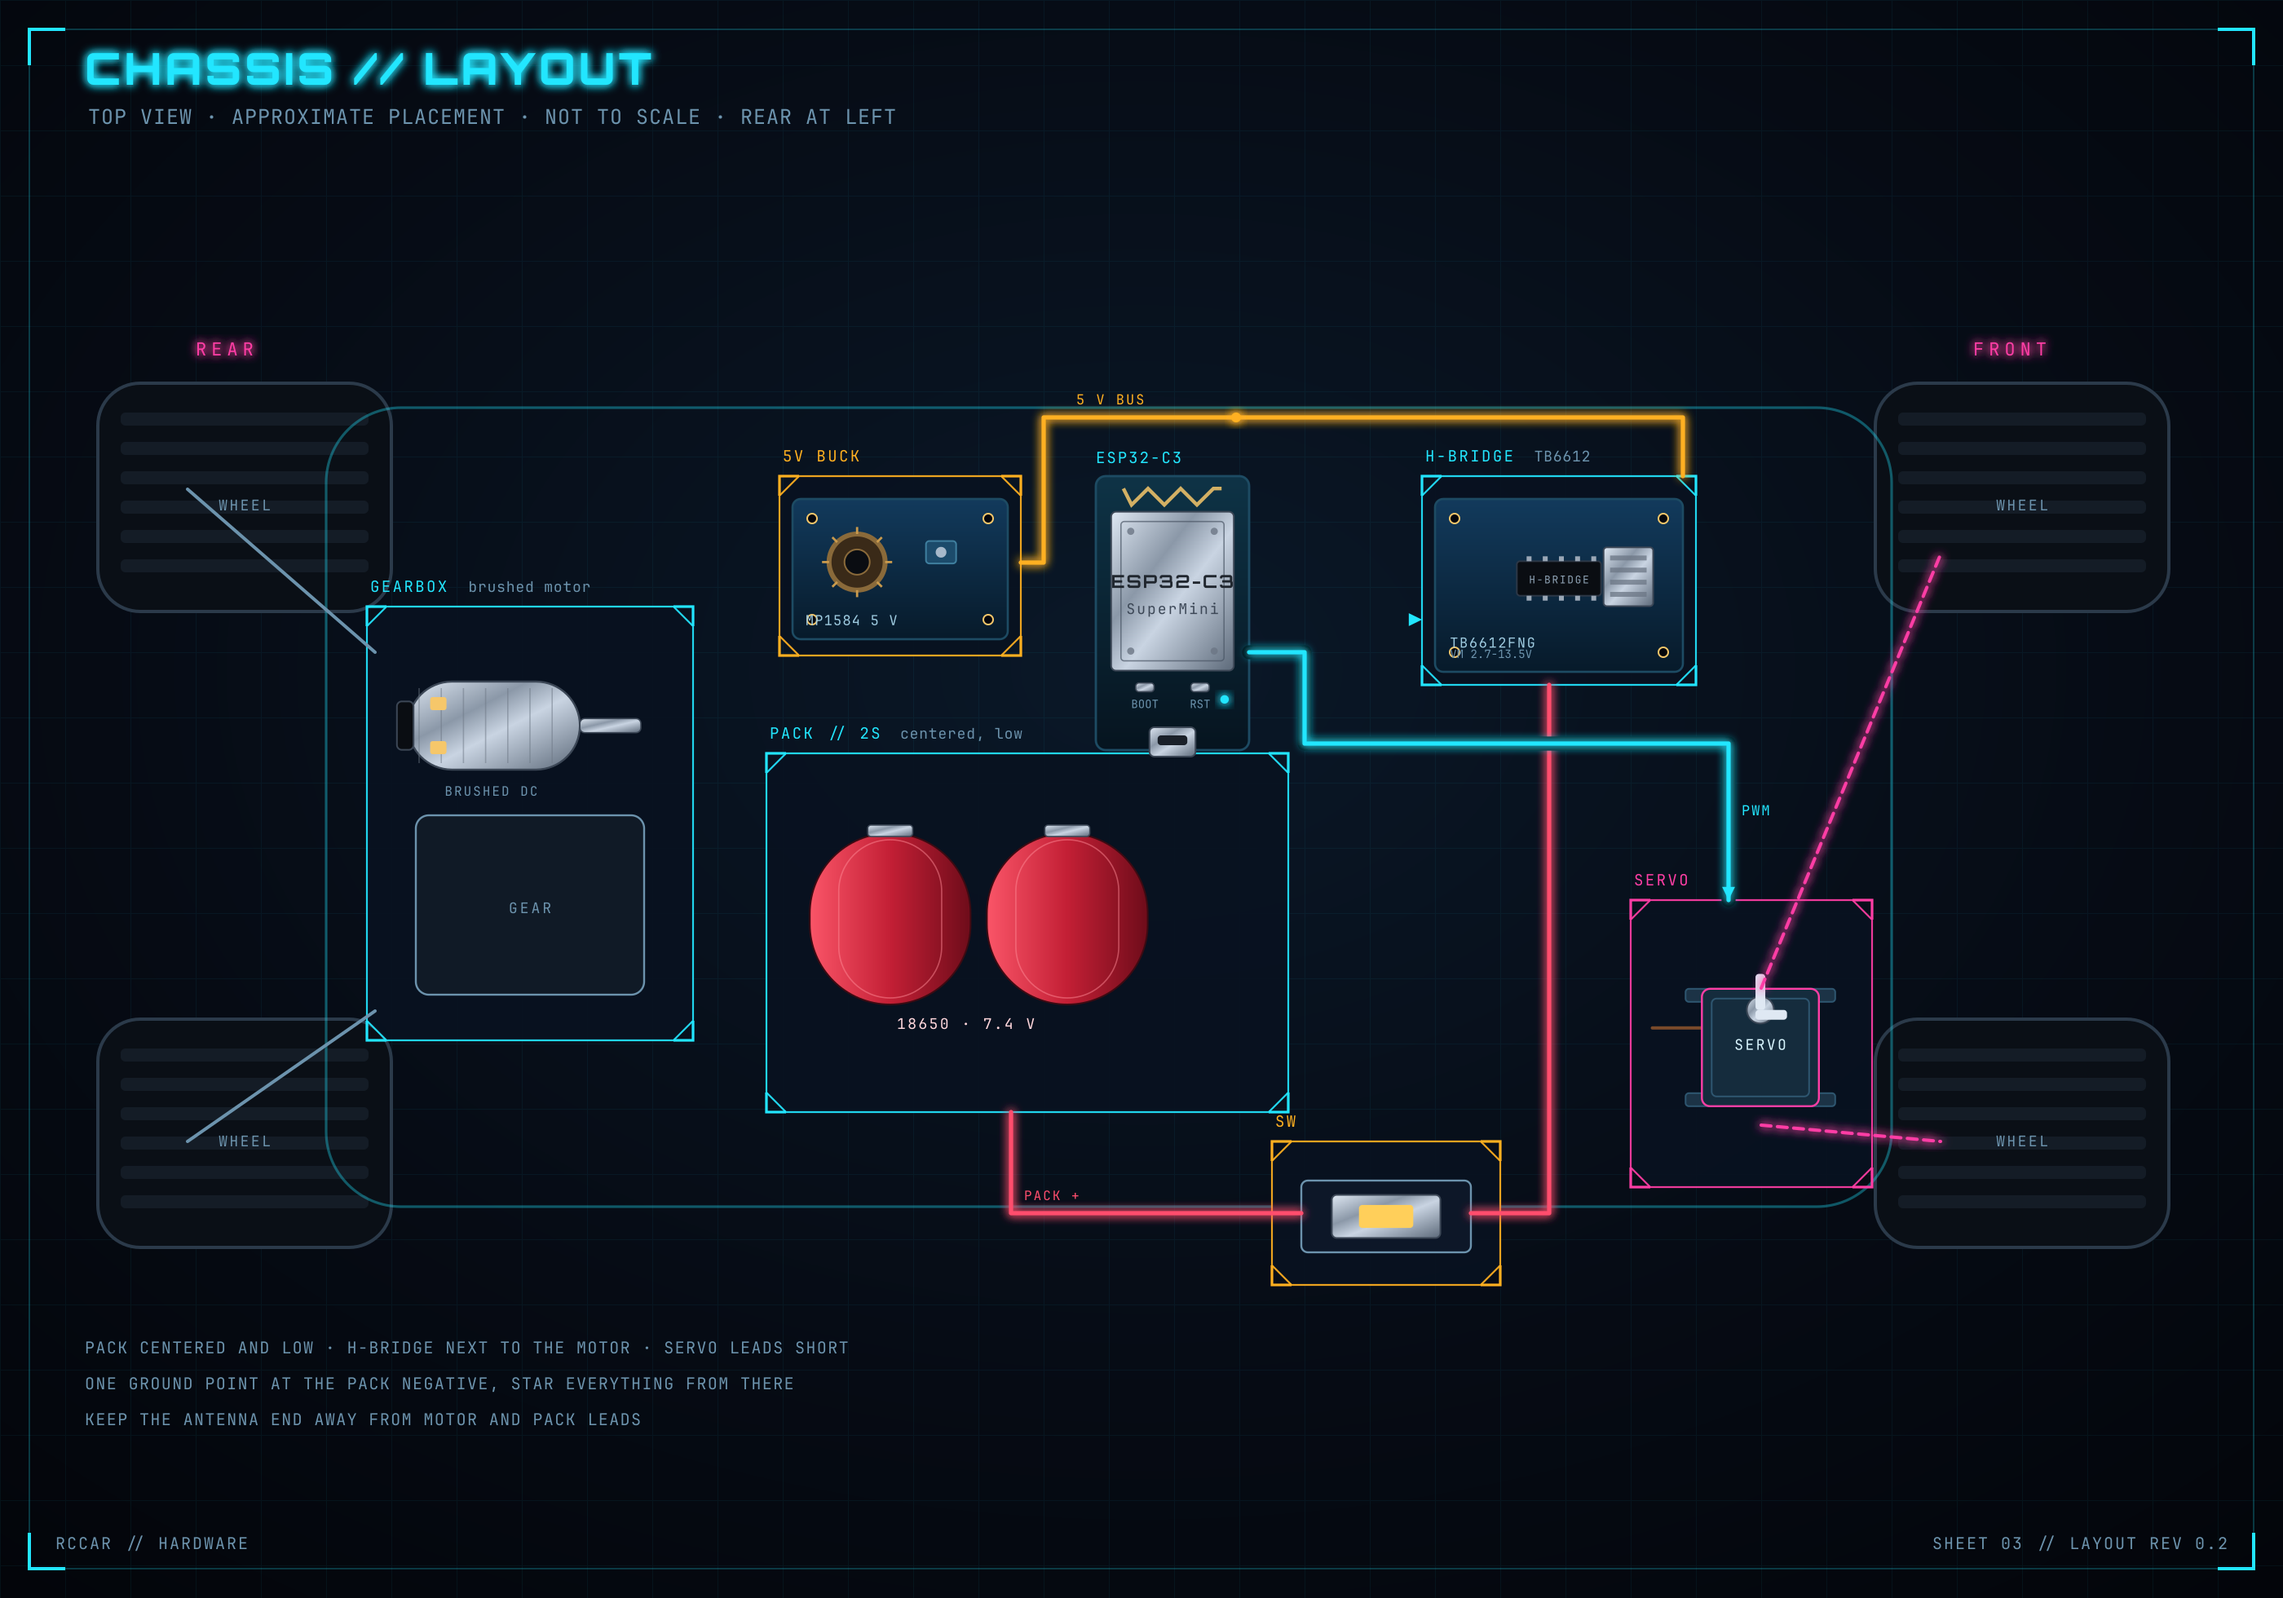
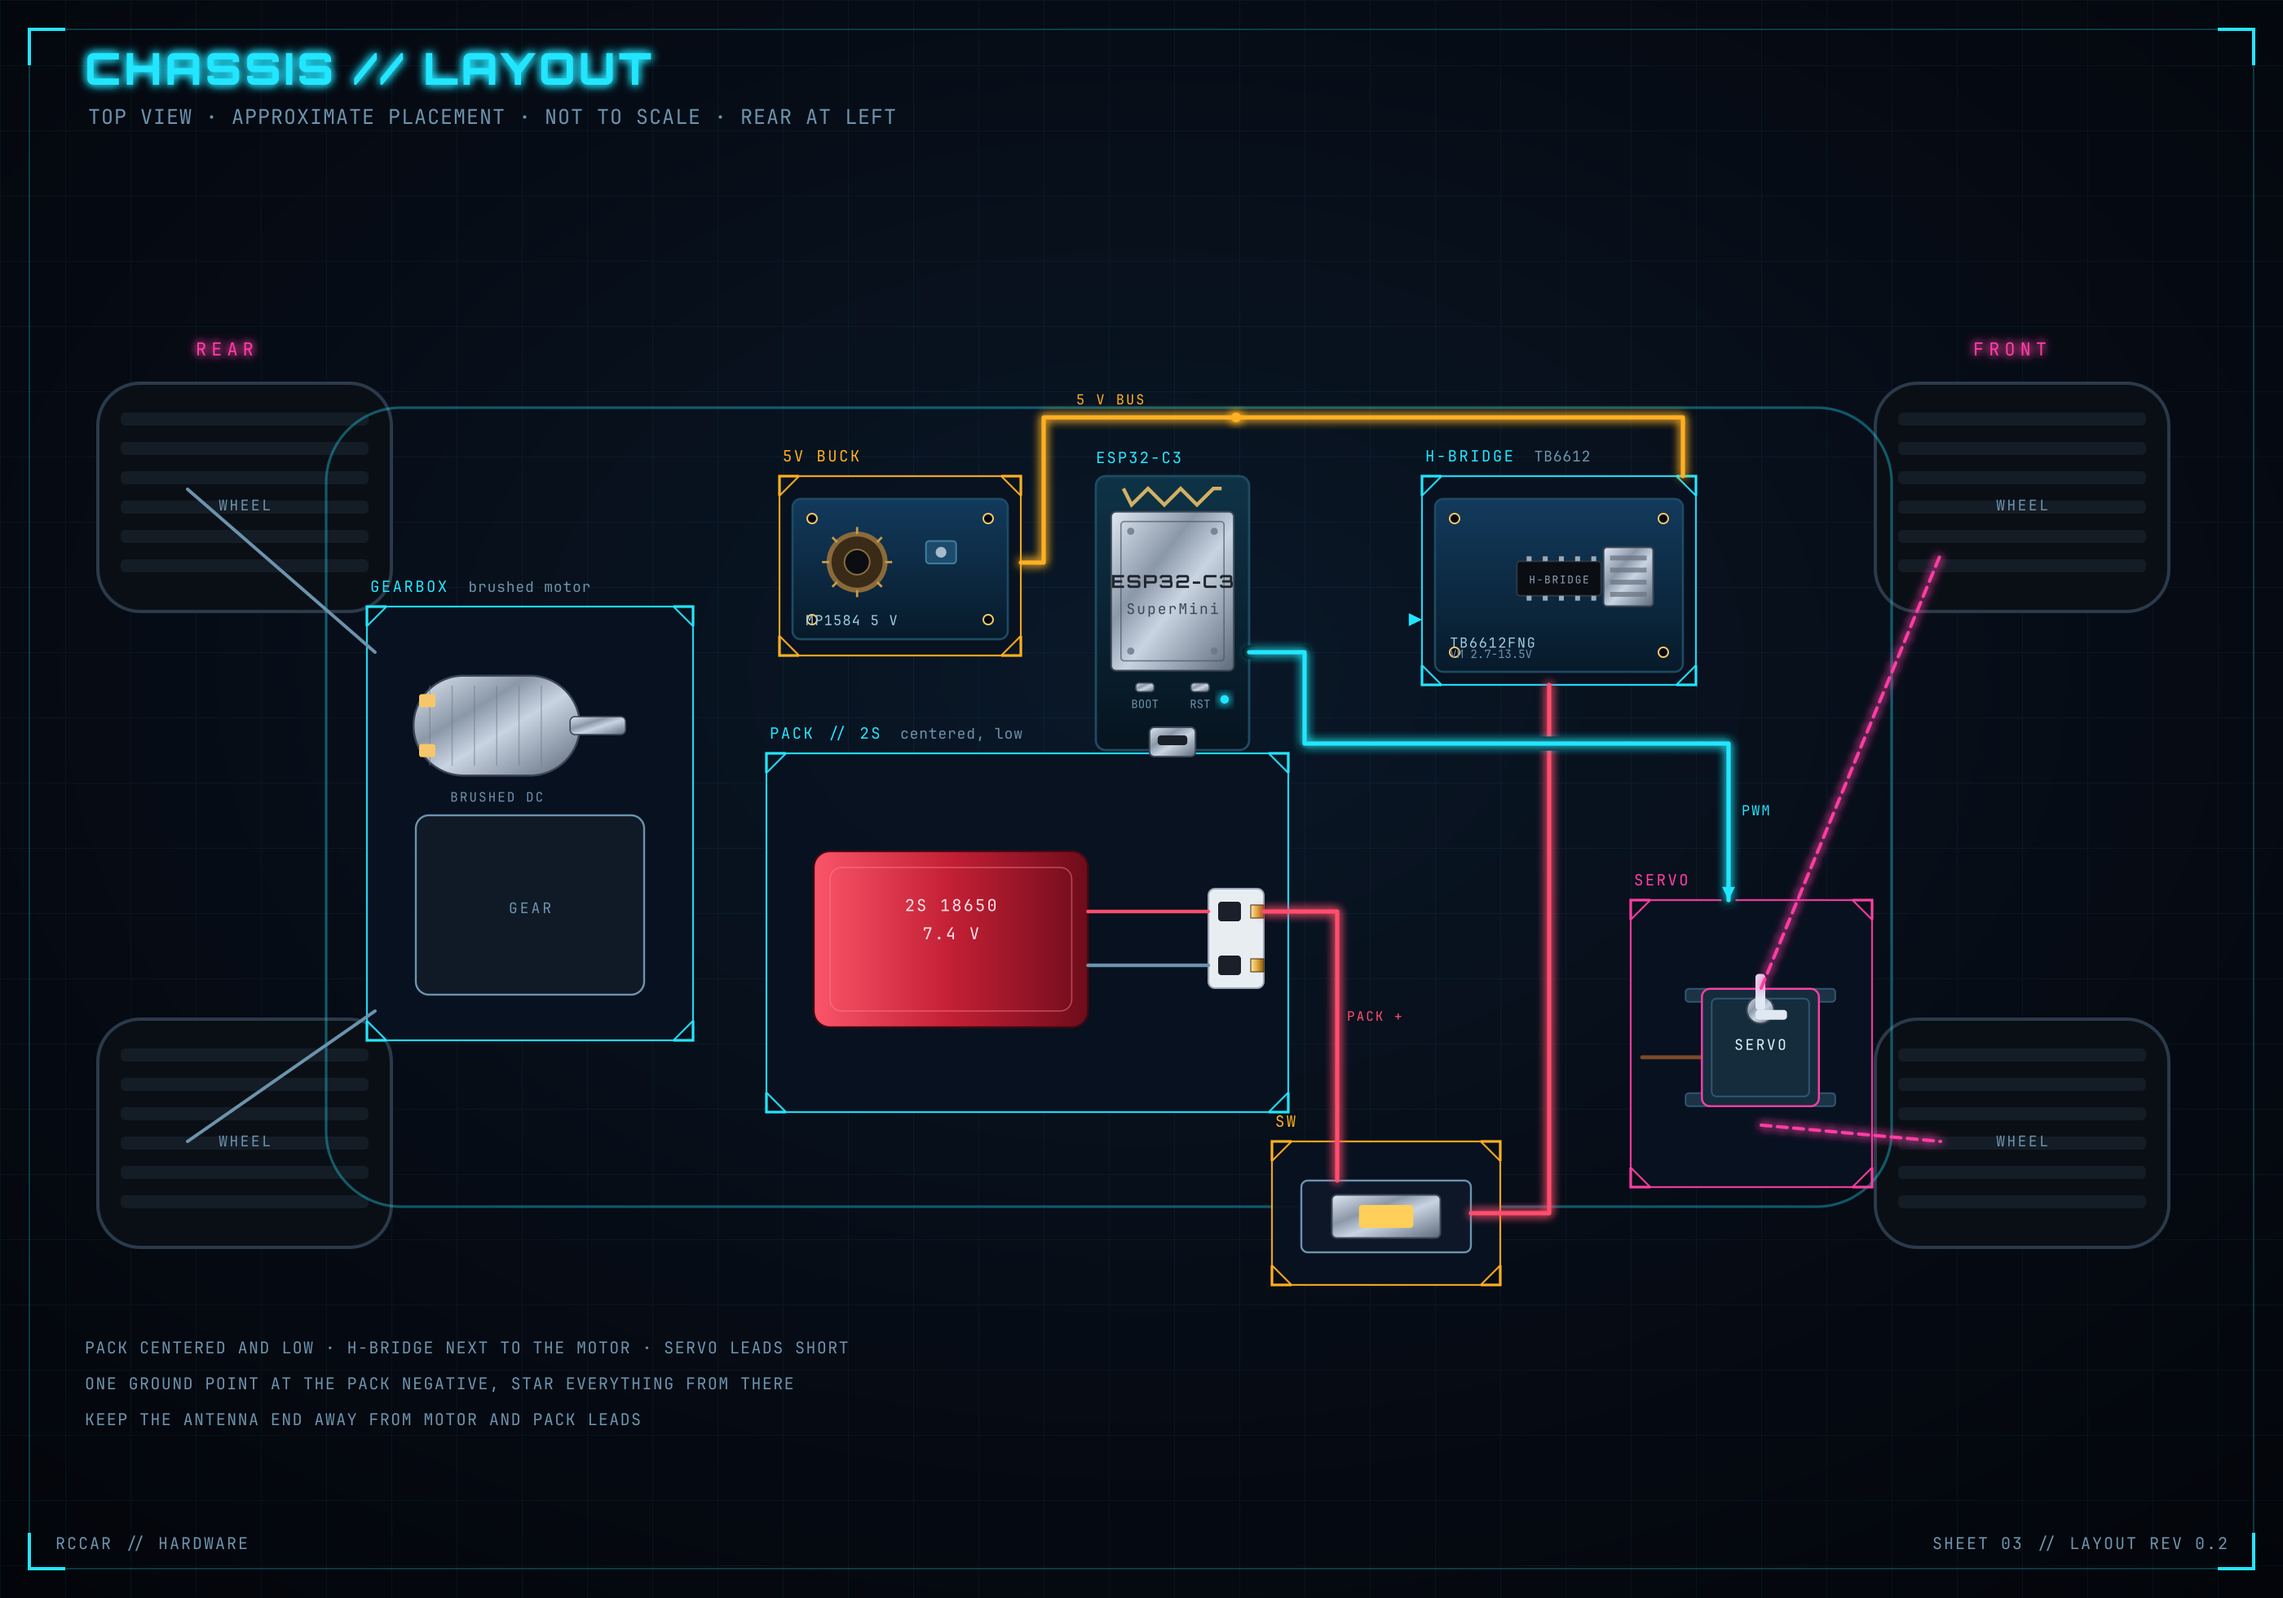
fix: wire battery, motor and divider fully in diagrams

Changed region(s): [[0.3418, 0.498, 0.5904, 0.7781], [0.1554, 0.4046, 0.2486, 0.498], [0.2486, 0.4357, 0.2796, 0.4668]]

diff --git a/tools/diagrams.py b/tools/diagrams.py
@@ -259,19 +259,27 @@ class Svg:
         for py in pad_r:
             self.pad(x + w, py, "right")
 
-    def battery_pack(self, x, y, w, h):
-        cw = w * 0.34
-        ch = h * 0.7
-        cy = y + h * 0.1
-        for cx in (x + w * 0.04, x + w * 0.04 + cw + 10):
-            self.add(f'<rect x="{cx}" y="{cy}" width="{cw}" height="{ch}" rx="{cw/2}" '
-                     f'fill="url(#{self.grad("cellred")})" stroke="#3d0a12" stroke-width="1"/>')
-            self.add(f'<rect x="{cx+cw*0.18}" y="{cy+4}" width="{cw*0.64}" height="{ch-8}" '
-                     f'rx="{cw*0.32}" fill="none" stroke="#ff8a96" stroke-width="0.8" opacity="0.5"/>')
-            self.add(f'<rect x="{cx+cw*0.36}" y="{cy-5}" width="{cw*0.28}" height="7" rx="2" '
-                     f'fill="url(#{self.grad("metal")})" stroke="#3c4756" stroke-width="0.8"/>')
-        self.text(x + w * 0.37, cy + ch + 15, "18650  ·  7.4 V", size=9, fill="#ffd7dc",
+    def battery_pack(self, x, y, w, h, pin_ys=None):
+        plus_y, minus_y = pin_ys or (y + h * 0.42, y + h * 0.64)
+        bw = w * 0.58
+        bx, by, bh = x + 14, y + 26, h * 0.72
+        self.add(f'<rect x="{bx}" y="{by}" width="{bw}" height="{bh}" rx="10" '
+                 f'fill="url(#{self.grad("cellred")})" stroke="#3d0a12" stroke-width="1.2"/>')
+        self.add(f'<rect x="{bx+10}" y="{by+10}" width="{bw-20}" height="{bh-20}" rx="7" '
+                 f'fill="none" stroke="#ff8a96" stroke-width="0.8" opacity="0.45"/>')
+        self.text(bx + bw / 2, by + bh * 0.34, "2S 18650", size=10, fill="#ffe3e7",
                   anchor="middle", family=MONO, spacing="1.2")
+        self.text(bx + bw / 2, by + bh * 0.5, "7.4 V", size=10, fill="#ffe3e7",
+                  anchor="middle", family=MONO, spacing="1.2")
+        cx0 = x + w - 34
+        self.add(f'<rect x="{cx0}" y="{plus_y-14}" width="34" height="{minus_y-plus_y+28}" rx="4" '
+                 f'fill="#e8edf2" stroke="#9aa7b6" stroke-width="1"/>')
+        for ty in (plus_y, minus_y):
+            self.add(f'<rect x="{cx0+6}" y="{ty-6}" width="14" height="12" rx="2" fill="#1a2029"/>')
+            self.add(f'<rect x="{x+w-8}" y="{ty-4}" width="8" height="8" '
+                     f'fill="url(#{self.grad("gold")})" stroke="#3a2a08" stroke-width="0.5"/>')
+        self.wire([(bx + bw, plus_y), (cx0, plus_y)], RD, 2.2, glow=False)
+        self.wire([(bx + bw, minus_y), (cx0, minus_y)], MU, 2.2, glow=False)
 
     def hbridge_module(self, x, y, w, h, pads):
         self.add(f'<rect x="{x}" y="{y}" width="{w}" height="{h}" rx="5" '
@@ -331,7 +339,7 @@ class Svg:
         body_w, body_h = w * 0.52, h * 0.6
         bx, by = x + w * 0.28, y + h * 0.22
         # cable
-        self.wire([(x + w * 0.06, y + h * 0.42), (bx, y + h * 0.42)], "#7a4a2a", 2, glow=False)
+        self.wire([(x + 2, y + h * 0.57), (bx, y + h * 0.57)], "#7a4a2a", 2.4, glow=False)
         # tabs
         self.add(f'<rect x="{bx-10}" y="{by}" width="{body_w+20}" height="8" rx="2" fill="#1c3346" '
                  f'stroke="#2e5670" stroke-width="1"/>')
@@ -351,24 +359,37 @@ class Svg:
         self.add(f'<rect x="{hx-3}" y="{hy-w*0.16}" width="6" height="{w*0.16}" rx="2" fill="#dfe8f3"/>')
         self.add(f'<rect x="{hx-3}" y="{hy}" width="{w*0.14}" height="6" rx="2" fill="#dfe8f3"/>')
 
-    def motor(self, x, y, w, h):
-        cy = y + h * 0.5
-        r = h * 0.3
-        # can
-        self.add(f'<rect x="{x+w*0.06}" y="{cy-r}" width="{w*0.62}" height="{r*2}" rx="{r}" '
+    def motor(self, x, y, w, h, terms=None):
+        if terms:
+            t0, t1 = min(terms), max(terms)
+            top, bot = t0 - 26, t1 + 26
+            cy = (top + bot) / 2
+            r = (bot - top) / 2
+            body_x = x + 26
+        else:
+            cy = y + h * 0.5
+            r = h * 0.34
+            top, bot = cy - r, cy + r
+            body_x = x + w * 0.08
+        body_w = w * 0.6
+        self.add(f'<rect x="{body_x}" y="{top}" width="{body_w}" height="{bot-top}" rx="{r}" '
                  f'fill="url(#{self.grad("metal")})" stroke="#3c4756" stroke-width="1.2"/>')
-        for i in range(7):
-            self.add(f'<line x1="{x+w*0.1+i*w*0.08}" y1="{cy-r+4}" x2="{x+w*0.1+i*w*0.08}" y2="{cy+r-4}" '
-                     f'stroke="#6b7684" stroke-width="0.8" opacity="0.5"/>')
-        self.add(f'<rect x="{x+w*0.02}" y="{cy-r*0.55}" width="{w*0.06}" height="{r*1.1}" rx="3" '
-                 f'fill="#0a0d12" stroke="#3c4756" stroke-width="1"/>')
+        for i in range(6):
+            self.add(f'<line x1="{body_x+10+i*(body_w-20)/6}" y1="{top+6}" '
+                     f'x2="{body_x+10+i*(body_w-20)/6}" y2="{bot-6}" stroke="#6b7684" '
+                     f'stroke-width="0.8" opacity="0.45"/>')
         # shaft
-        self.add(f'<rect x="{x+w*0.68}" y="{cy-r*0.16}" width="{w*0.22}" height="{r*0.32}" rx="3" '
-                 f'fill="url(#{self.grad("metal")})" stroke="#3c4756" stroke-width="0.8"/>')
-        # terminals
-        for ty in (cy - r * 0.5, cy + r * 0.5):
-            self.add(f'<rect x="{x+w*0.14}" y="{ty-4}" width="10" height="8" rx="1.5" fill="{GOLD}"/>')
-        self.text(x + w * 0.36, cy + r + 16, "BRUSHED DC", size=8, fill=MU,
+        self.add(f'<rect x="{body_x+body_w-6}" y="{cy-r*0.18}" width="{w*0.2}" height="{r*0.36}" '
+                 f'rx="3" fill="url(#{self.grad("metal")})" stroke="#3c4756" stroke-width="0.8"/>')
+        # terminals at the requested y
+        if terms:
+            for ty in terms:
+                self.add(f'<rect x="{x}" y="{ty-5}" width="{body_x-x}" height="10" rx="2" '
+                         f'fill="{GOLD}" stroke="#3a2a08" stroke-width="0.6"/>')
+        else:
+            for ty in (cy - r * 0.5, cy + r * 0.5):
+                self.add(f'<rect x="{x+w*0.1}" y="{ty-4}" width="10" height="8" rx="1.5" fill="{GOLD}"/>')
+        self.text(body_x + body_w / 2, bot + 16, "BRUSHED DC", size=8, fill=MU,
                   anchor="middle", family=MONO, spacing="1")
 
     def rocker(self, x, y, w, h):
@@ -383,11 +404,11 @@ class Svg:
         """100k from IN to node, 47k node to GND, node to OUT (ADC tap)."""
         ytop = y + 38
         node = x + 150
-        self.wire([(x + w - 6, ytop), (node + 92, ytop)], RD, 2, glow=False)
-        self.zigzag(node + 92, ytop, 92, 7)
+        pin_x = x + w  # 380
+        # 100k zigzag from the IN pin to the node
+        self.zigzag(pin_x, ytop, node + 8 - pin_x, 7)
         self.wire([(node, ytop), (node + 8, ytop)], TX, 2, glow=False)
         self.dot(node, ytop, TX, 3)
-        # 47k down
         for i in range(4):
             yy = ytop + 12 + i * 9
             self.add(f'<path d="M {node-7} {yy} L {node+7} {yy+4.5} L {node-7} {yy+9}" '
@@ -395,12 +416,11 @@ class Svg:
         self.wire([(node, ytop), (node, ytop + 12)], TX, 2, glow=False)
         self.wire([(node, ytop + 48), (node, ytop + 56)], TX, 2, glow=False)
         self.gnd(node, ytop + 56, MU)
-        self.text(node + 46, ytop - 8, "100k", size=9.5, fill=TX, anchor="middle",
+        self.text((pin_x + node) / 2, ytop - 12, "100k", size=9.5, fill=TX, anchor="middle",
                   family=MONO, spacing="0.5")
         self.text(node + 12, ytop + 30, "47k", size=9.5, fill=TX, family=MONO)
-        # tap to OUT
         self.wire([(node, ytop), (node + 40, ytop), (node + 40, ytop + 40),
-                   (x + w - 6, ytop + 40)], LM, 2, glow=False)
+                   (pin_x, ytop + 40)], LM, 2, glow=False)
         self.text(x + 8, y + h - 6, "3.13:1  ->  GPIO0", size=8.5, fill=LM,
                   family=MONO, spacing="0.4")
 
@@ -467,14 +487,16 @@ def wiring():
     s.legend(1020, 70)
 
     # ---------- battery ----------
-    s.panel(70, 104, 260, 164, "PACK // 2S", "7.4 V nominal, 8.4 V full")
-    s.battery_pack(80, 124, 240, 124)
-    s.pin_in(320, 215, "BAT +", RD)
-    s.pin_in(320, 255, "BAT -", MU)
+    s.panel(70, 104, 260, 176, "PACK // 2S", "7.4 V nominal, 8.4 V full")
+    s.battery_pack(80, 118, 240, 150, (205, 250))
+    s.add(f'<circle cx="320" cy="205" r="4" fill="{RD}" filter="url(#{s.f_glow()})"/>')
+    s.add(f'<circle cx="320" cy="250" r="4" fill="{MU}" filter="url(#{s.f_glow()})"/>')
+    s.text(338, 198, "BAT +", size=9.5, fill=RD, family=MONO, spacing="0.8")
+    s.text(338, 243, "BAT -", size=9.5, fill=MU, family=MONO, spacing="0.8")
 
     # switch
-    s.panel(340, 120, 90, 80, "SW", None, AM)
-    s.rocker(352, 145, 62, 36)
+    s.panel(340, 110, 90, 80, "SW", None, AM)
+    s.rocker(352, 138, 62, 44)
 
     # ---------- H-bridge ----------
     s.panel(748, 100, 352, 300, "H-BRIDGE", "TB6612FNG  /  DRV8251A")
@@ -493,7 +515,7 @@ def wiring():
 
     # ---------- motor ----------
     s.panel(1170, 112, 320, 168, "MOTOR", "brushed DC, gearbox side")
-    s.motor(1185, 150, 290, 100)
+    s.motor(1185, 150, 290, 100, terms=[180, 250])
     s.pout(1180, 180, "M+", RD, "left")
     s.pout(1180, 250, "M-", RD, "left")
 
@@ -524,13 +546,13 @@ def wiring():
     s.pin_inside(1370, 780, "V+", AM, "bottom")
 
     # ---------- divider ----------
-    s.panel(70, 292, 320, 126, "SENSE DIVIDER", "pack voltage -> ADC")
+    s.panel(70, 298, 320, 124, "SENSE DIVIDER", "pack voltage -> ADC")
     s.divider(80, 300, 300, 112)
     s.pout(380, 340, "IN", RD, "right")
     s.pout(380, 380, "OUT", LM, "right")
 
     # ---------- power wiring ----------
-    s.wire([(320, 215), (335, 215), (335, 160), (350, 160)], RD)
+    s.wire([(320, 205), (335, 205), (335, 160), (350, 160)], RD)
     s.wire([(410, 160), (450, 160)], RD)
     s.wire([(450, 150), (450, 600), (520, 600)], RD, arrow=False)
     s.wire([(450, 150), (760, 150)], RD, arrow=True)
@@ -547,16 +569,16 @@ def wiring():
 
     s.wire([(520, 660), (500, 660), (500, 700)], MU, arrow=False)
     s.gnd(500, 700, MU)
-    s.wire([(320, 255), (360, 255), (360, 285)], MU, arrow=False)
-    s.gnd(360, 285, MU)
+    s.wire([(320, 250), (360, 250)], MU, arrow=False)
+    s.gnd(360, 250, MU)
 
     # 5 V rails
     s.wire([(800, 600), (900, 600)], AM, arrow=True)
-    s.dot(825, 600, AM, 3.5)
-    s.wire([(825, 600), (825, 450), (700, 450), (700, 210), (760, 210)], AM, arrow=False)
+    s.dot(810, 600, AM, 3.5)
+    s.wire([(810, 600), (810, 450), (700, 450), (700, 210), (760, 210)], AM, arrow=False)
     s.wire([(700, 270), (760, 270)], AM, arrow=True)
     s.dot(700, 270, AM, 3.5)
-    s.wire([(825, 600), (825, 940), (1370, 940), (1370, 780)], AM, arrow=True)
+    s.wire([(810, 600), (810, 940), (1370, 940), (1370, 780)], AM, arrow=True)
 
     s.wire([(800, 660), (812, 660), (812, 700)], MU, arrow=False)
     s.gnd(812, 700, MU)
@@ -568,8 +590,9 @@ def wiring():
     s.gnd(1315, 820, MU)
 
     # ---------- signals ----------
-    s.wire([(900, 744), (875, 744), (875, 430), (880, 430), (880, 400)], CY, arrow=True)
-    s.wire([(900, 708), (855, 708), (855, 455), (950, 455), (950, 400)], CY, arrow=True)
+    s.wire([(900, 744), (860, 744), (860, 430), (880, 430), (880, 400)], CY, arrow=True)
+    s.wire([(900, 708), (840, 708), (840, 455), (950, 455), (950, 400)], CY, arrow=True,
+           casing=True)
     s.wire([(1080, 600), (1100, 600), (1100, 720), (1330, 720)], CY, arrow=True)
 
     s.wire([(1090, 180), (1180, 180)], RD, arrow=True)
@@ -693,8 +716,8 @@ def layout():
 
     # pack power
     s.wire([(560, 462), (560, 378)], RD, arrow=False, glow=True)
-    s.wire([(620, 682), (620, 744), (798, 744)], RD, arrow=False, glow=True)
-    s.text(628, 736, "PACK +", size=8, fill=RD, family=MONO, spacing="1")
+    s.wire([(775, 559), (820, 559), (820, 724)], RD, arrow=False, glow=True)
+    s.text(826, 626, "PACK +", size=8, fill=RD, family=MONO, spacing="1")
     s.wire([(902, 744), (950, 744), (950, 420)], RD, arrow=False, glow=True)
 
     # signals
